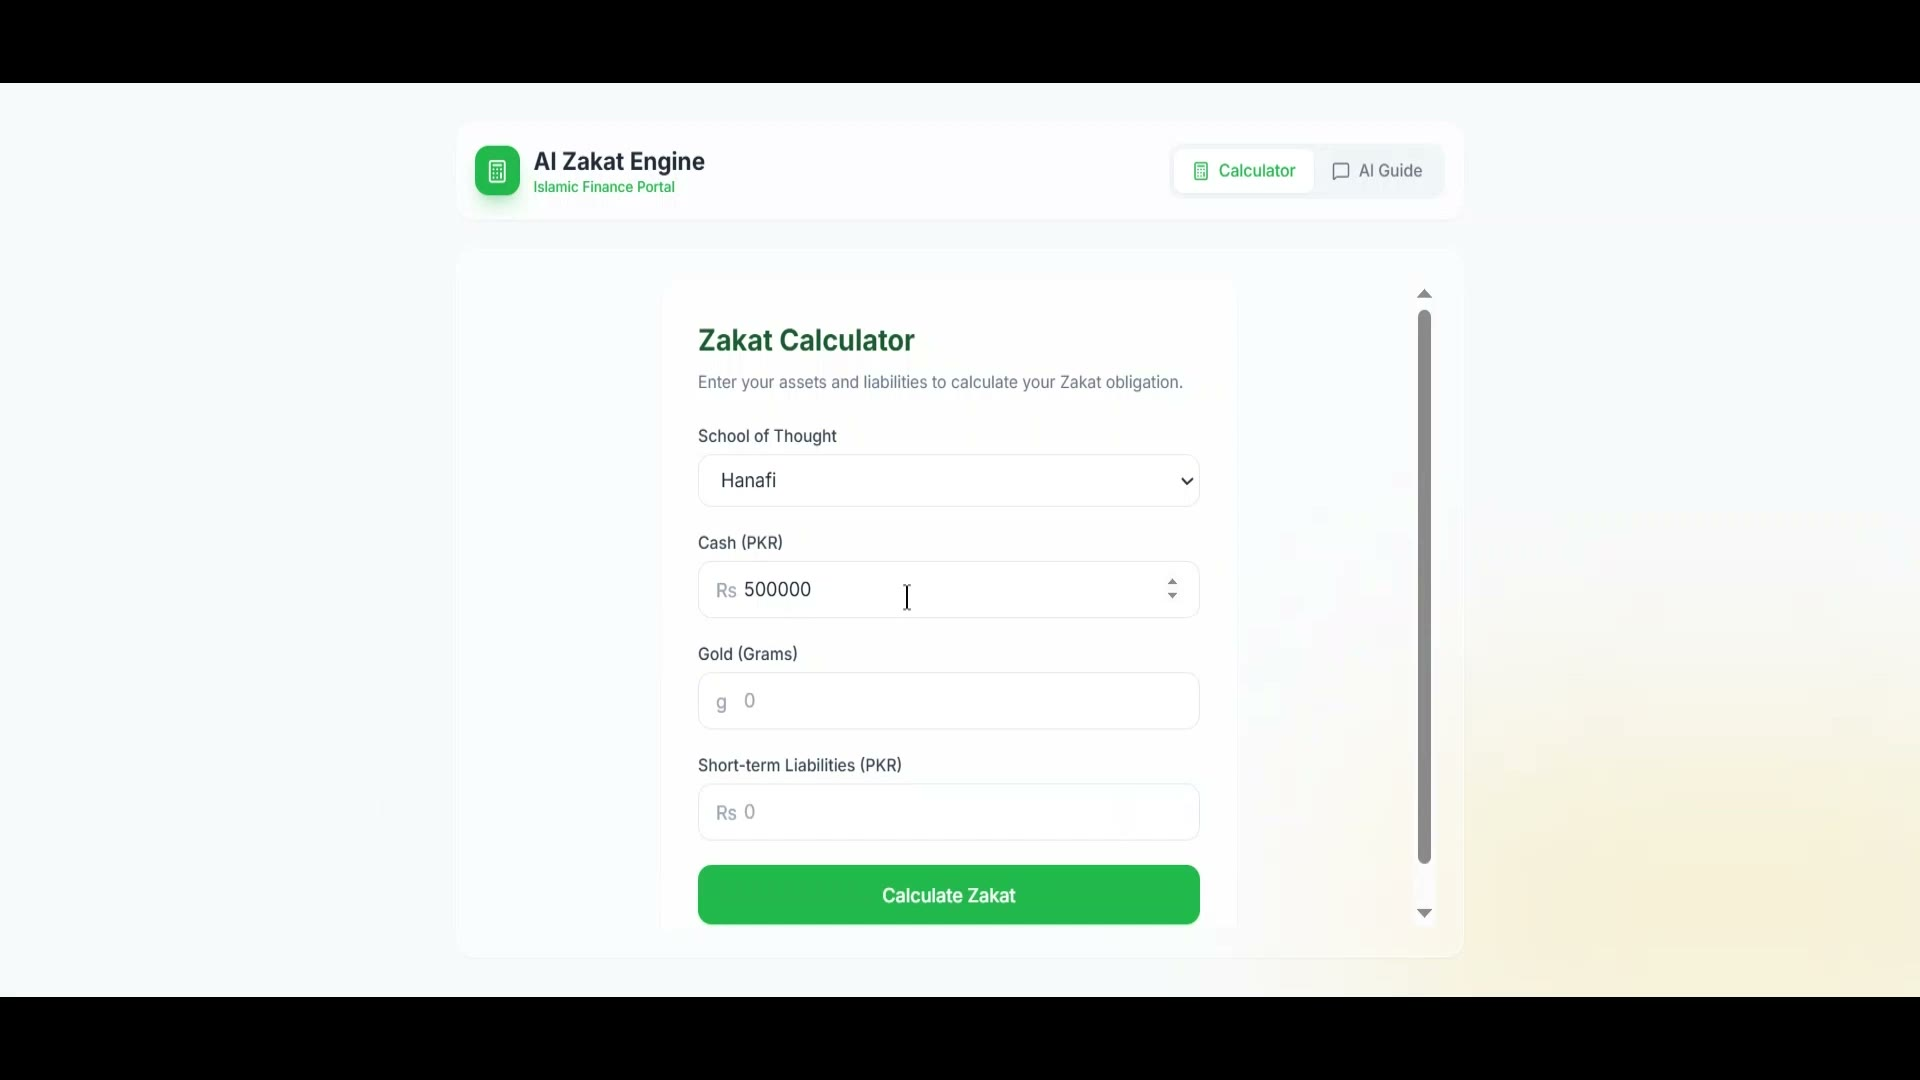
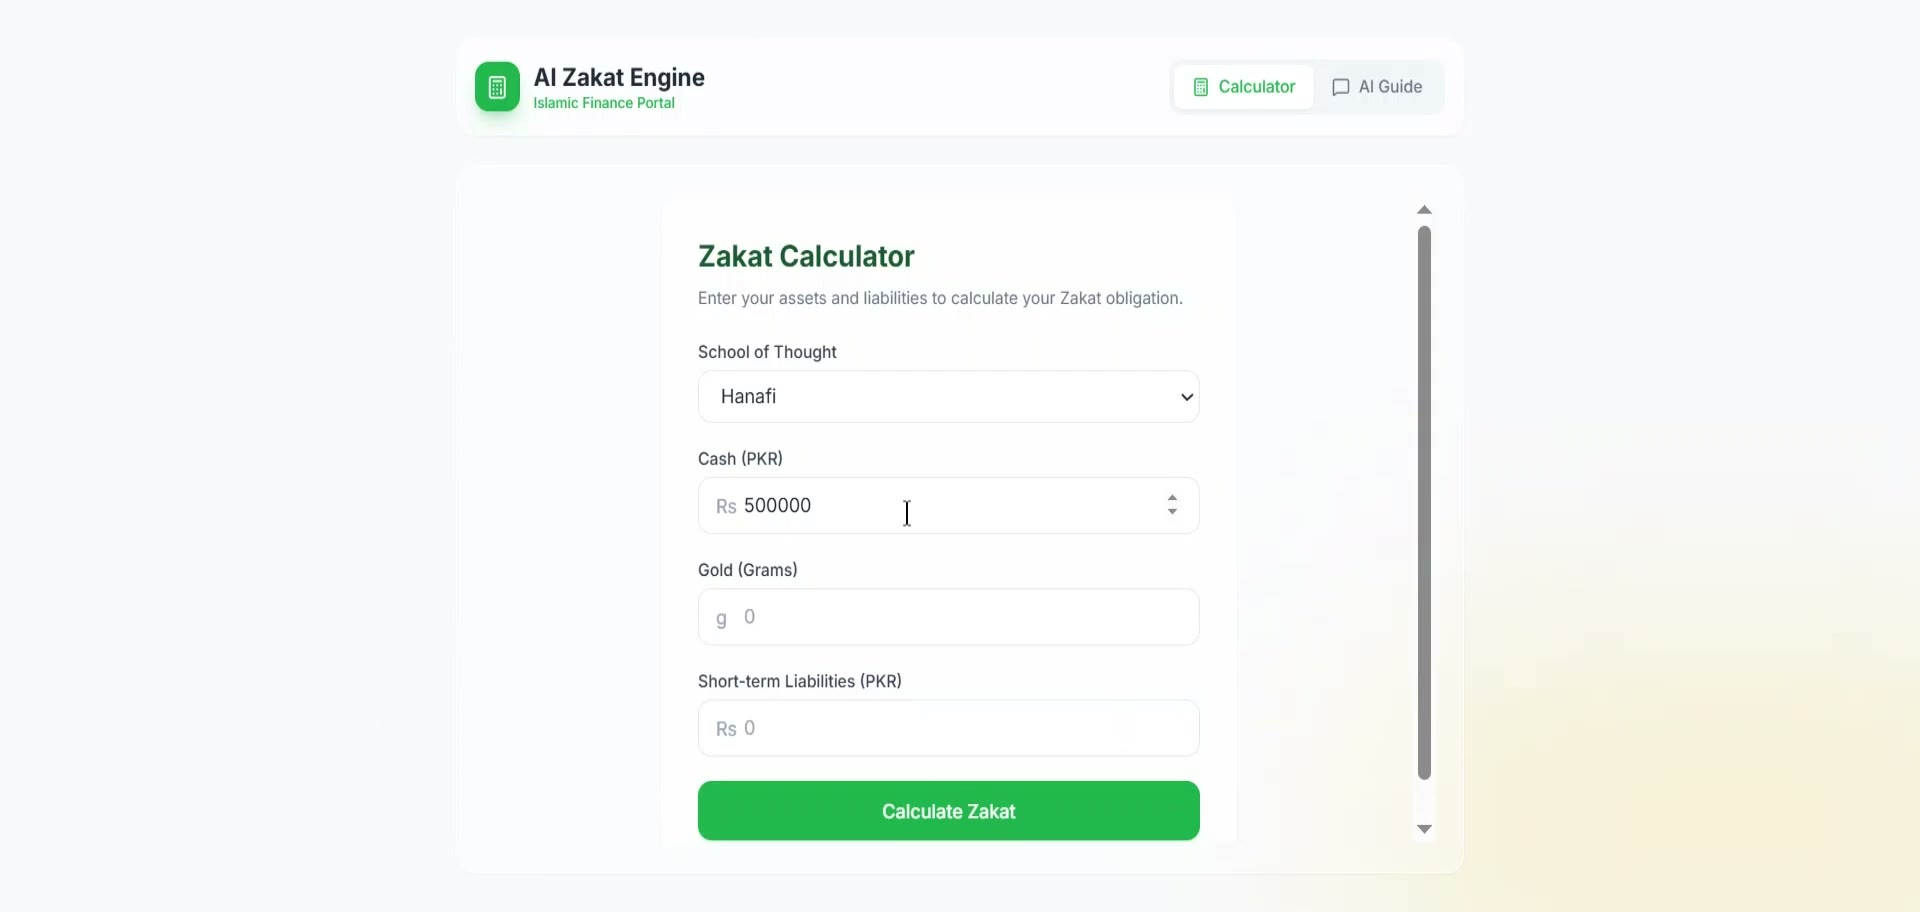
feat: enhance video display and upload functionality with improved styling and overwrite option

diff --git a/app/projects.css b/app/projects.css
@@ -203,10 +203,20 @@
 .ax-proj__stage--featured {
   --ax-stage-h: clamp(28rem, 40vw, 38rem);
 }
-.ax-proj__stage[data-orientation="landscape"] {
+.ax-proj__stage--featured[data-orientation="landscape"] {
   aspect-ratio: var(--ax-ratio, 16 / 9);
 }
-.ax-proj__stage[data-orientation="portrait"] {
+.ax-proj__stage[data-orientation="portrait"],
+/* A landscape cut in the grid is framed the same way a portrait one is —
+   inset with a margin, centred, glowing behind it — rather than bled to
+   the card's own edge. Full-bleed only worked while every screenshot in
+   the row happened to be dark footage of its own accord (InCall, Fraud
+   Detection); the Zakat Engine's cut is a light, white-background web
+   page, and at true edge-to-edge size it reads as a stray browser tab
+   dropped into an otherwise all-ink section rather than a product shot
+   that belongs there. A visible dark margin fixes that for ANY screenshot,
+   bright or dark, instead of fighting each one's own colour with a scrim. */
+.ax-proj__stage--card[data-orientation="landscape"] {
   height: var(--ax-stage-h);
   display: flex;
   align-items: center;
@@ -224,7 +234,8 @@
   opacity: 0.4;
   pointer-events: none;
 }
-.ax-proj__stage[data-orientation="portrait"]::after {
+.ax-proj__stage[data-orientation="portrait"]::after,
+.ax-proj__stage--card[data-orientation="landscape"]::after {
   content: "";
   position: absolute;
   inset: 0;
@@ -236,6 +247,35 @@
 .ax-proj__frame {
   position: relative;
   z-index: 1;
+}
+/* A permanent, gentle scrim over every demo — not just the moment before
+   play. The footage here is a mix of dim office photography and pure
+   white app screenshots (the Zakat calculator, a light-themed web page)
+   sitting in an otherwise all-ink section; without this, that one card
+   reads as a stray browser tab pasted into a dark room. The wash is
+   light enough that a screenshot's own text stays legible — it's doing
+   the same job as the "lit from a gallery wall" treatment a case-study
+   site gives every product shot, so the whole row reads as one system
+   of dark cards rather than each product's own background colour. */
+.ax-proj__frame::after {
+  content: "";
+  position: absolute;
+  inset: 0;
+  z-index: 2;
+  pointer-events: none;
+  background: linear-gradient(
+      180deg,
+      rgba(6, 8, 12, 0.22) 0%,
+      rgba(6, 8, 12, 0.08) 22%,
+      rgba(6, 8, 12, 0.1) 70%,
+      rgba(6, 8, 12, 0.32) 100%
+    ),
+    radial-gradient(120% 95% at 50% 45%, rgba(6, 8, 12, 0) 45%, rgba(6, 8, 12, 0.26) 100%);
+  mix-blend-mode: multiply;
+}
+.ax-proj__stage[data-orientation="portrait"] .ax-proj__frame::after,
+.ax-proj__stage--card[data-orientation="landscape"] .ax-proj__frame::after {
+  border-radius: inherit;
 }
 html.ax-motion:not(.ax-reduced) .ax-proj__frame {
   animation: ax-proj-in 0.6s var(--ease) both;
@@ -250,11 +290,16 @@ html.ax-motion:not(.ax-reduced) .ax-proj__frame {
     transform: none;
   }
 }
-.ax-proj__stage[data-orientation="landscape"] .ax-proj__frame {
+.ax-proj__stage--featured[data-orientation="landscape"] .ax-proj__frame {
   position: absolute;
   inset: 0;
 }
-.ax-proj__stage[data-orientation="portrait"] .ax-proj__frame {
+/* The device frame: a portrait cut always gets one, and now so does a
+   landscape cut in the grid — same margin, same lit edge, see the note
+   on `.ax-proj__stage--card[data-orientation="landscape"]` above. Only
+   `--ax-ratio` differs, so both fall through to the video's own shape. */
+.ax-proj__stage[data-orientation="portrait"] .ax-proj__frame,
+.ax-proj__stage--card[data-orientation="landscape"] .ax-proj__frame {
   height: 100%;
   max-width: 100%;
   aspect-ratio: var(--ax-ratio, 9 / 16);
@@ -588,7 +633,8 @@ html.ax-motion:not(.ax-reduced) .ax-proj__frame {
   .ax-proj__stage--featured {
     --ax-stage-h: clamp(24rem, 100vw, 30rem);
   }
-  .ax-proj__stage[data-orientation="portrait"] {
+  .ax-proj__stage[data-orientation="portrait"],
+  .ax-proj__stage--card[data-orientation="landscape"] {
     padding: 1rem;
   }
   .ax-proj__play-ring {

diff --git a/_review2.js b/_review2.js
@@ -1,0 +1,32 @@
+const { chromium } = require('playwright');
+
+(async () => {
+  const browser = await chromium.launch();
+  const page = await browser.newPage({ viewport: { width: 1440, height: 900 } });
+  await page.goto('http://localhost:3000', { waitUntil: 'networkidle', timeout: 60000 });
+  await page.waitForSelector('#reels', { timeout: 30000 });
+
+  const total = await page.evaluate(() => document.body.scrollHeight);
+  for (let y = 0; y < total; y += 300) {
+    await page.evaluate((yy) => window.scrollTo(0, yy), y);
+    await page.waitForTimeout(25);
+  }
+
+  const top = await page.evaluate(() => document.getElementById('reels').getBoundingClientRect().top + window.scrollY);
+  const bottom = await page.evaluate(() => {
+    const r = document.getElementById('reels').getBoundingClientRect();
+    return r.bottom + window.scrollY;
+  });
+
+  let y = top - 20;
+  let i = 0;
+  while (y < bottom + 200) {
+    await page.evaluate((yy) => window.scrollTo(0, yy), y);
+    await page.waitForTimeout(1400);
+    await page.screenshot({ path: `C:/Users/zuhoor/AppData/Local/Temp/claude/d--aibrigaderevamp/827bff9d-e6ca-46a7-b86f-b0d4a0689000/scratchpad/full-${i}.png` });
+    y += 850;
+    i += 1;
+  }
+
+  await browser.close();
+})();

diff --git a/components/projects/ProjectMedia.jsx b/components/projects/ProjectMedia.jsx
@@ -209,10 +209,15 @@ export default function ProjectMedia({
       data-started={started || undefined}
       style={{ "--ax-ratio": ratio }}
     >
-      {/* A blurred copy of the poster lights the space around a portrait
-          cut, so the phone stands in its own product's colour rather than
-          on a flat black slab. Decorative only. */}
-      {orientation === "portrait" && video.poster && (
+      {/* A blurred copy of the poster lights the space around a cut that
+          sits inset from its own frame — every portrait cut, and a
+          landscape one in the grid (see `.ax-proj__stage--card` in
+          projects.css: a landscape screenshot there is framed with a
+          margin rather than bled to the edge, the same reasoning as the
+          device frame below). The featured slot's landscape cut still
+          runs full-bleed, so it gets no glow — there's no margin for one
+          to light. Decorative only. */}
+      {(orientation === "portrait" || variant === "card") && video.poster && (
         <span
           className="ax-proj__stage-glow"
           aria-hidden="true"

diff --git a/components/projects.data.js b/components/projects.data.js
@@ -155,7 +155,7 @@ export const projects = [
     description:
       "A Zakat calculator that works the way a scholar would: pick a school of thought, enter cash, gold and short-term liabilities, and it works out what's owed. An AI guide sits alongside it for the Islamic finance questions a plain number can't answer.",
     videos: {
-      en: { src: video("zakat.mp4"), poster: poster("zakat-en"), width: 1920, height: 1080, duration: 117 },
+      en: { src: video("zakat.mp4"), poster: poster("zakat-en"), width: 1920, height: 912, duration: 117 },
     },
     resources: [],
   },
